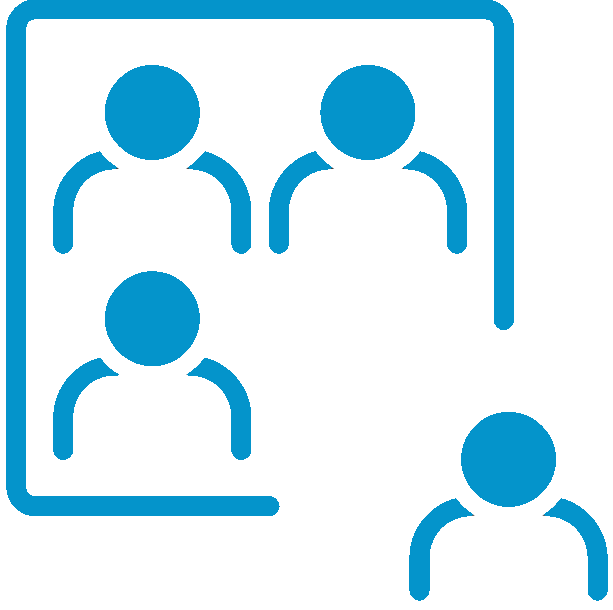
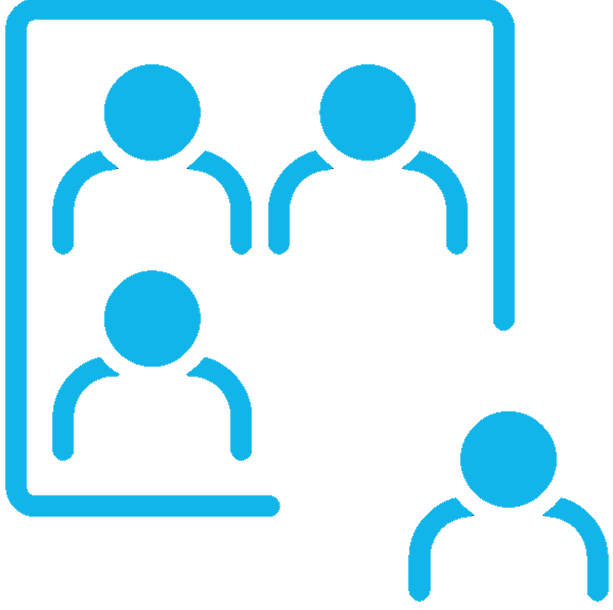
v2

Changed region(s): [[0.0, 0.0, 0.8679, 0.8721], [0.6509, 0.6541, 1.0, 0.9967]]

diff --git a/client/index.html b/client/index.html
@@ -2,7 +2,7 @@
 <html lang="en">
 
 <head>
-    <title>30 Day Target Move-in Date Calculator | Built for Zero</title>
+    <title>30 Day Target Move-In Date Calculator | Built for Zero</title>
     <meta name="viewport" content="width=device-width, initial-scale=1">
     <link rel="stylesheet" href="style.css">
     <!-- CS Fonts -->
@@ -16,22 +16,24 @@
     <form name="submitToGoogleSheet" id="formInput">
         <div class="gridContainer">
             <div class="pageHeader">
-                <h1 style="font-size:40px;">30 Day Target Move-in Date Calculator   |   Built for Zero</h1>
-                <p style="font-size: 16px; font-weight: bold;"> This tool is designed to help you set goals around a monthly Housing Placement rate to help drive an increase in your community's outflow.</p>
-                <p style="font-size: 16px;">Enter your data along with your targets. Then, press the <b>GO!</b> button to view your <b>Suggested Reduction Goals</b>.<br></p>
+                <h1 style="font-size: 40px;">Built for Zero</h1>
+                <h1 style="font-size:40px;">30 Day Target Move-In Date Calculator</h1>
+                <p style="font-size: 16px;"> Setting a Target Move-In Date Goal can bring new focus and clarity to the way that you work with clients every week. 
+                    At the end of your case conferencing meeting, consistently check how many target move-in dates your team has set for the next 30 days. Are you on track to 
+                    house enough people to reduce your by-name list? This goal calculator will help you know.</p>
             </div>
             <div class="disclaimer">
-                <p style="font-size: 15px; background-color:rgba(90, 90, 90, 0.647); padding: 1%;">
-                    <b>PLEASE NOTE: </b>There is no guarantee that reaching these Housing Placement and Outflow targets will result in a reduction in your community's Actively Homeless Number. 
-                    The tool below uses a simple linear model that rests on the assumption that your monthly inflow and outflow are fairly constant each month and that the three months of 
-                    data you enter below are representative of your typical inflow and outflow. Since it is impossible to accurately predict what your actual inflow and outflow will be in the future, 
-                    these assumptions are non-trivial. Therefore, this tool is for goal-setting purposes only and should not be relied upon to provide an accurate projection of what will happen in your homelessness system. 
+                <p style="font-size: 15px; background-color:rgba(90, 90, 90, 0.647); padding: 2%;">
+                    <b>HOW TO USE THIS TOOL: </b>It takes a lot of work to reduce your by-name list. This tool helps you focus on just one part, your housing placements. 
+                    Use the <a href="https://docs.google.com/document/d/11QEc_Yd7us2gqvrVhqg1Y2LvnraLX3j8FyFzgTvXo3s/edit">Target Move-In Dates Guide</a> along with this tool to ensure that your team is on track to house people at your desired rate.
+                    <br><br>
+                    This tool helps your case conferencing team set target move-in dates so that you can house people faster; it is not a forecasting tool. 
+                    If your inflow or outflow rates change over the coming months, your actively homeless count will fluctuate. Give attention to your entire system! 
+                    Reducing your by-name list requires accelerating your housing placements, yes, and also taking action to intentionally reduce people entering your system.  
                 </p>
             </div>
-            <div class="communityHeader">
-                <h2>COMMUNITY & POPULATION</h2>
-            </div> 
             <div class="communityDetails">
+                <h2>COMMUNITY & POPULATION</h2>
                 <div style="display: inline-block;">
                     <label for="dropdown">COMMUNITY</label>
                     <select class="input" name="Community" id="communityDropdown" required>
@@ -59,28 +61,25 @@
             </div>
             <div class="currentMonth">
                 <h2>CURRENT STATE</h2>
-                <label for="dropdown">CURRENT MONTH</label><br><br>
+                <label for="dropdown">CURRENT MONTH</label>
                 <input type="month" class="input" name="Current Month" id="currentMonth" readonly>
             </div>
             <div class="currentActivelyHomeless">
                 <label for="input">CURRENT ACTIVELY HOMELESS NUMBER</label>
-                <div class="helptext">Enter the number of individuals currently experiencing homelessness in your community</div>
                 <input class="form-input" name="Current Actively Homeless" type="number" min="0" id="currentActivelyHomelessInput" required>
             </div>
             <div class="targetMonth">
                 <h2>TARGET STATE</h2>
                 <label for="dropdown">TARGET MONTH</label>
-                <div class="helptext">Select the date by which you want to reach the goal</div>
                 <input type="month" class="input" name="Target Month" id="targetMonthDropdown" required>
             </div>
             <div class="targetActivelyHomeless">
                 <label for="input">TARGET ACTIVELY HOMELESS NUMBER</label>
-                <div class="helptext">Enter the Actively Homeless Number you would like to reach by the Target Month</div>
                 <input class="form-input" name="Target Actively Homeless" type="number" min="0" id="targetActivelyHomelessInput" required>
             </div>
             
             <div class="dataHeader">
-                <h2>ENTER YOUR MOST RECENT 3 MONTHS OF DATA</h2>                    
+                <h2>YOUR MOST RECENT 3 MONTHS OF DATA</h2>                    
                 <button type="button" style="width: 20%; margin-right: 2%;" id="autofill-button">AUTOFILL DATA</button>
                 <p style="color:#ffd2e6; display: inline-block;" id="autofillError"></p>
             </div>
@@ -113,42 +112,46 @@
             <div class="goalParam1">
                 <h2>GOAL PARAMETERS</h2>
                 <img src="../assets/noun_month_3202614.png">
-                <p id="paramNumMonths" style="font-size: 30px; font-weight: bold; color: #ff6f0c; margin: 0%;"></p>
-                <p style="color: #ff6f0c;">month(s) to reach your target</p>
+                <p id="paramNumMonths" style="font-size: 30px; font-weight: bold; color: #12b5ea; margin: 0%;"></p>
+                <p style="color: #12b5ea;">month(s) to reach your target</p>
                 
                 <img src="../assets/noun_people_3457286.png">
-                <p id="paramTargetNetChange" style="font-size: 30px; font-weight: bold; color: #86af15; margin: 0%;"></p>
-                <p style="color: #86af15;">person reduction on your active list</p>
+                <p id="paramTargetNetChange" style="font-size: 30px; font-weight: bold; color: #12b5ea; margin: 0%;"></p>
+                <p style="color: #12b5ea;">person reduction on your active list</p>
             </div>
             <div class="goalParam2">
                 <img src="../assets/noun_homeless_3418188.png">
-                <p id="paramAvgInflow" style="font-size: 30px; font-weight: bold; color: #a50a51; margin: 0%;"></p>
-                <p style="color: #a50a51;">people joining the list each month<br>(average total monthly inflow)</p>
+                <p id="paramAvgInflow" style="font-size: 30px; font-weight: bold; color: #12b5ea; margin: 0%;"></p>
+                <p style="color: #12b5ea;">people joining the list each month<br>(average total monthly inflow)</p>
             </div>
             <div class="goalParam3">
                 <img src="../assets/noun_exit_2590544.png">
-                <p id="paramAvgOutflow" style="font-size: 30px; font-weight: bold; color: #0494cb; margin: 0%;"></p>
-                <p style="color: #0494cb;">people moving off the list each month<br>(average total monthly outflow)</p>
+                <p id="paramAvgOutflow" style="font-size: 30px; font-weight: bold; color: #12b5ea; margin: 0%;"></p>
+                <p style="color: #12b5ea;">people moving off the list each month<br>(average total monthly outflow)</p>
                 
                 <img src="../assets/noun_Home_680045.png">
                 <p id="paramAvgHoused" style="font-size: 30px; font-weight: bold; color: #12b5ea; margin: 0%;"></p>
                 <p style="color: #12b5ea;">people moving into housing<br>(average monthly housing placements)</p>
             </div>
-            <div class="validationMsg" style="color:#ffd2e6; padding: 1%; text-align: center;" id="dataValidationWarning"></div>
-            <div class="submitButton" id="button-wrapper">
+            <div class="submitButton" style="text-align: center;" id="button-wrapper">
+                <p style="color:#ffd2e6; padding: 1%;" id="dataValidationWarning"></p>
                 <button type="submit" id="submit-button">GO!</button>
+                <div class="loader" style="display: none;" id="loader"></div>
                 <br>
-                <p style="font-size: 15px; color:#ffd2e6; padding: 0% 40% 0% 1%; text-align: center;">All fields are required. Averages calculated below are rounded up to the next whole number to avoid counting "fractional people." :)</p>
-            </div>
-
-            <div class="suggestedGoal" id="suggestedGoal">
-                <h2 style="text-align: center; vertical-align: middle;">SUGGESTED GOAL</h2>
+                <p style="font-size: 15px; color:#ffd2e6;">All fields are required. Averages calculated below are rounded up to the next whole number to avoid counting "fractional people." :)</p>
             </div>
             <div class="goal">
-                <p style="display: none; padding: 1%;" id="goalMet"></p>
-                <p  style="display: none; padding: 1%;" id="goal"> Increase monthly housing placements from<br>
+                <h2 style="text-align: center; margin: 0px; background-color: #12b5ea; padding: 2%;">TARGET MOVE-IN DATES GOAL</h2>
+                <p style="display: none; padding: 0% 1%;" id="goalMet"></p>
+                <p style="display: none; padding: 0% 1%;" id="goal"> Increase monthly housing placements from<br>
                     <span style="font-weight: bold; color:#12b5ea;" id="currentTargetHousingRate"></span> to
                     <span style="font-weight: bold; color:#12b5ea;" id="goalTargetHousingRate"></span> people per month
+                </p>
+                <p style="display: none; padding: 0% 2%; font-size: 15px" id="goalTargetExplanation">In order to reach that goal, you should set at least 
+                    <span style="font-weight: bold; color: #12b5ea;" id="goalTargetHousingRate2"></span> target move-in dates for the next 30 days.</span>
+                </p>
+                <p style="display: none; padding: 0% 2%; font-size: 15px; text-align: left;" id="goalAction"><b>How to take action: </b>Check your by-name list. Do you have enough target move-in dates set for this month? 
+                    If not, go back through the list with an open mind and look for creative ideas to move some clients through your housing process faster.
                 </p>
             </div>
             
@@ -156,56 +159,56 @@
                 <h2 style="text-align: center;">EXPLANATION</h2> <br><br>
                 <div style="display: none;" id="explanation1">
                     <p >To reduce your active list by
-                        <span style="font-size: 20px; font-weight:bold; color:#86af15;" id="explanationTargetNetChange"></span> people in 
-                        <span style="font-size: 20px; font-weight:bold; color:#ff6f0c;" id="explanationNumMonths"></span> month(s), you will need to reduce your Actively Homeless Number by 
-                        <span style="font-size: 20px; font-weight:bold; color:rgb(35, 35, 35);" id="explanationTargetNetChangeRate"></span> people per month. 
+                        <span style="font-size: 20px; font-weight:bold; color:#12b5ea;" id="explanationTargetNetChange"></span> people in 
+                        <span style="font-size: 20px; font-weight:bold; color:#12b5ea;" id="explanationNumMonths"></span> month(s), you will need to reduce your Actively Homeless Number by 
+                        <span style="font-size: 20px; font-weight:bold; color:#12b5ea;" id="explanationTargetNetChangeRate"></span> people per month. 
                     </p>
                     <br>
-                    <span style="font-size: 20px; font-weight:bold; color:#86af15;" id="equationTargetNetChange"></span> people / 
-                    <span style="font-size: 20px; font-weight:bold; color:#ff6f0c;" id="equationNumMonths"></span> month(s)
-                    <p style="font-weight:bold; color:rgb(35, 35, 35);">= <span style="font-size: 20px;" id="equationTargetNetChangeRate"></span> person monthly reduction</p>
+                    <span style="font-size: 20px; font-weight:bold; color:#12b5ea;" id="equationTargetNetChange"></span> people / 
+                    <span style="font-size: 20px; font-weight:bold; color:#12b5ea;" id="equationNumMonths"></span> month(s)
+                    <p style="font-weight:bold; color:#12b5ea;">= <span style="font-size: 20px;" id="equationTargetNetChangeRate"></span> person monthly reduction</p>
                 </div>
             </div>
             <div class="explanation2">
                 <div style="display: none;" id="explanation2">
                     <p>Assuming 
-                        <span style="font-size: 20px; font-weight:bold; color: #a50a51;" id="explanationAvgInflow"></span> people are joining your list each month, you will need to have 
-                        <span style="font-size: 20px; font-weight:bold; color:rgb(35, 35, 35)" id="explanationTargetOutflowRate"></span> people move off your list each month. 
+                        <span style="font-size: 20px; font-weight:bold; color: #12b5ea;" id="explanationAvgInflow"></span> people are joining your list each month, you will need  
+                        <span style="font-size: 20px; font-weight:bold; color:#12b5ea" id="explanationTargetOutflowRate"></span> people move off your list each month. 
                     </p>
                     <br>
-                    <span style="font-size: 20px; font-weight:bold; color:rgb(35, 35, 35);" id="equationTargetNetChangeRate2"></span> person monthly reduction + 
-                    <span style="font-size: 20px; font-weight:bold; color: #a50a51;" id="equationAvgInflow"></span> person monthly inflow
-                    <p style="font-weight:bold; color:rgb(35, 35, 35);">= <span style="font-size: 20px;" id="equationTargetOutflowRate"></span> person monthly outflow needed</p>
+                    <span style="font-size: 20px; font-weight:bold; color:#12b5ea;" id="equationTargetNetChangeRate2"></span> person monthly reduction + 
+                    <span style="font-size: 20px; font-weight:bold; color: #12b5ea;" id="equationAvgInflow"></span> person monthly inflow
+                    <p style="font-weight:bold; color:#12b5ea;">= <span style="font-size: 20px;" id="equationTargetOutflowRate"></span> person monthly outflow needed</p>
                 </div>
             </div>
             <div class="explanation3">
                 <div style="display: none;" id="explanation3">
                     <p>Assuming 
-                        <span style="font-size: 20px; font-weight:bold; color: #0494cb;" id="explanationAvgTotalOutflow"></span> people are currently moving off the list each month, 
+                        <span style="font-size: 20px; font-weight:bold; color: #12b5ea;" id="explanationAvgTotalOutflow"></span> people are currently moving off the list each month, 
                         <span style="font-size: 20px; font-weight:bold; color: #12b5ea;" id="explanationAvgHoused"></span> due to moving into housing and 
-                        <span style="font-size: 20px; font-weight:bold; color: rgb(35, 35, 35);" id="explanationOtherOutflow"></span> due to other outflow, you can increase your monthly housing placements to 
-                        <span style="font-size: 20px; font-weight:bold; color: rgb(35, 35, 35);" id="explanationTargetHousingRate"></span> people per month to reach your goal. 
+                        <span style="font-size: 20px; font-weight:bold; color: #12b5ea;" id="explanationOtherOutflow"></span> due to other outflow, you can increase your monthly housing placements to 
+                        <span style="font-size: 20px; font-weight:bold; color: #12b5ea;" id="explanationTargetHousingRate"></span> people per month to reach your goal. 
                     </p>
                     <br>
-                    <span style="font-size: 20px; font-weight: bold; color: #0494cb;" id="equationAvgTotalOutflow"></span> person total outflow - 
+                    <span style="font-size: 20px; font-weight: bold; color: #12b5ea;" id="equationAvgTotalOutflow"></span> person total outflow - 
                     <span style="font-size: 20px; font-weight: bold; color: #12b5ea;" id="equationAvgHoused"></span> current monthly housing placements
-                    <p style="font-weight: bold; color: rgb(35, 35, 35)"> = <span style="font-size: 20px;" id="equationOtherOutflow";></span> person monthly other outflow</p>
+                    <p style="font-weight: bold; color: #12b5ea"> = <span style="font-size: 20px;" id="equationOtherOutflow";></span> person monthly other outflow</p>
                     <br>
-                    <span style="font-size: 20px; font-weight:bold; color:rgb(35, 35, 35);" id="equationTargetOutflowRate2"></span> person monthly outflow needed - 
-                    <span style="font-size: 20px; font-weight:bold; color: rgb(35, 35, 35);" id="equationOtherOutflow2"></span> person monthly other outflow
-                    <p style="font-weight:bold; color:rgb(35, 35, 35);">= <span style="font-size: 20px;" id="equationTargetHousingRate"></span> monthly housing placements needed</p>
+                    <span style="font-size: 20px; font-weight:bold; color:#12b5ea;" id="equationTargetOutflowRate2"></span> person monthly outflow needed - 
+                    <span style="font-size: 20px; font-weight:bold; color: #12b5ea;" id="equationOtherOutflow2"></span> person monthly other outflow
+                    <p style="font-weight:bold; color:#12b5ea;">= <span style="font-size: 20px;" id="equationTargetHousingRate"></span> monthly housing placements needed</p>
                 </div>
             </div>
             <div class="note" style="font-size: small;">
-                <b>NOTE:</b> This estimate is based on the assumption that your monthly Total Inflow and Other Outflow rates remain similar to the 3 month averages calculated above. Please bear in mind that 
+                <b>HOW WE MAKE THIS CALCULATION:</b> This estimate is based on the assumption that your monthly Total Inflow and Other Outflow rates remain similar to the 3 month averages calculated above. Please bear in mind that 
                     past performance is not indicative of future performance, particularly for factors like Inflow and Other Outflow which are heavily impacted by external factors outside the control of your homelessness response system.
-                <br><br>
-                <p><b>Icon credits: </b>month by Adrien Coquet from the Noun Project, people by Ainsley Agatha from the Noun Project, homeless by ZakaUddin from the Noun Project,
-                    discard by priyanka from the Noun Project, Home by Gregor Cresnar from the Noun Project</p>
                 </div>
         </div>
     </form>
-
+    <div class="iconCredit" style="font-size: small;">
+        <p>Icon credits: month by Adrien Coquet from the Noun Project, people by Ainsley Agatha from the Noun Project, homeless by ZakaUddin from the Noun Project,
+            discard by priyanka from the Noun Project, Home by Gregor Cresnar from the Noun Project</p>
+    </div>
     <!-- Main JS script -->
     <script src="./main.js"></script>
 </body>

diff --git a/client/main.js b/client/main.js
@@ -128,11 +128,15 @@ document.getElementById("autofill-button").onclick = function() {
 function showHideGoal(showHide) {
     if (showHide == "hide") {
         document.getElementById("goal").style.display = "none";
+        document.getElementById("goalTargetExplanation").style.display = "none";
+        document.getElementById("goalAction").style.display = "none";
         document.getElementById("explanation1").style.display = "none";
         document.getElementById("explanation2").style.display = "none";
         document.getElementById("explanation3").style.display = "none";
     } else if (showHide == "show") {
         document.getElementById("goal").style.display = "block";
+        document.getElementById("goalTargetExplanation").style.display = "block";
+        document.getElementById("goalAction").style.display = "block";
         document.getElementById("goalMet").style.display = "none";
         document.getElementById("explanation1").style.display = "block";
         document.getElementById("explanation2").style.display = "block";
@@ -145,6 +149,9 @@ function hideParameters() {
     document.getElementById('paramAvgInflow').innerHTML = "";
     document.getElementById("paramAvgHoused").innerHTML = "";
     document.getElementById("paramAvgOutflow").innerHTML = "";
+}
+function hideLoader() {
+    document.getElementById("loader").style.display = "none"
 }
 
 // DISPLAY RESULTS AND WRITE TO GOOGLE SHEET WHEN "SUBMIT" IS CLICKED
@@ -202,6 +209,9 @@ function submitData(formName){
             hideParameters();
             document.getElementById("dataValidationWarning").innerHTML = "<b>ERROR: </b>Housing Placement numbers must be smaller than the Total Outflow numbers.";
         } else {
+            // Show loader
+            document.getElementById("loader").style.display = "inline-block";
+
             // Show parameters
             document.getElementById("paramNumMonths").innerHTML = timeframe;
             document.getElementById("paramTargetNetChange").innerHTML = targetNetChange;
@@ -220,6 +230,7 @@ function submitData(formName){
                 showHideGoal("show");
                 document.getElementById("currentTargetHousingRate").innerHTML = avg3MoHoused;
                 document.getElementById("goalTargetHousingRate").innerHTML = targetHousingRate;    
+                document.getElementById("goalTargetHousingRate2").innerHTML = targetHousingRate;
 
                 document.getElementById("explanationTargetNetChange").innerHTML = targetNetChange;
                 document.getElementById("explanationNumMonths").innerHTML = timeframe;
@@ -262,6 +273,9 @@ function submitData(formName){
             fetch(scriptURL, {method: "POST", body: formData})
                 .then((response) => console.log("Success!", response))
                 .catch((error) => console.error("Error!", error.message));
+            
+            // Hide loader
+            setTimeout(hideLoader, 500);
         }
     });
 }

diff --git a/client/style.css b/client/style.css
@@ -33,23 +33,13 @@ body {
       grid-column: 5/8;
       grid-row: 1;
     }
-    .communityHeader {
-      grid-column: 1/5;
-      grid-row: 2;
-    }
     .communityDetails {
       grid-column: 1/5;
-      grid-row: 3;
-    }
-    .suggestedGoal {
-      grid-column: 5/8;
-      grid-row: 2;
-      background-color:#12b5ea;
-      padding: 2% 2%;
+      grid-row: 2/3;
     }
     .goal {
       grid-column: 5/8;
-      grid-row: 3;
+      grid-row: 2/4;
       background-color:  rgba(205, 205, 205, 0.178);
       font-size: 28px; 
       color:white; 
@@ -178,18 +168,18 @@ body {
       grid-column: 6/8;
       grid-row: 9/11;
     }
-    .validationMsg {
-      grid-column: 2/4;
-      grid-row: 11;
-    }
     .submitButton {
-      grid-column: 2/5;
-      grid-row: 12;
+      grid-column: 1/5;
+      grid-row: 11;
     }
     .note {
       grid-column: 5/8;
-      grid-row: 11/13;
+      grid-row: 11;
       padding: 3% 1%;
+    }
+    .iconCredit {
+      grid-column: 1/8;
+      grid-row: 13;
     }
   img {
     width: 25%;
@@ -239,7 +229,7 @@ body {
     color:black;
   }
   button {
-    width: 60%;
+    width: 50%;
     padding: 5px;
     color: white;
     background-color: #a50a51;
@@ -257,6 +247,21 @@ body {
     align-items: center;
     justify-content: center;
   }
+  .loader {
+    border: 7px solid #f3f3f3; /* Light grey */
+    border-top: 7px solid #a50a51; /* Blue */
+    border-radius: 50%;
+    width: 20px;
+    height: 20px;
+    animation: spin 2s linear infinite;
+    vertical-align: -10px;
+    margin-left: 2%;
+  }  
+  @keyframes spin {
+    0% { transform: rotate(0deg); }
+    100% { transform: rotate(360deg); }
+  }
+  
   
   /* @media only screen and (max-width: 600px) {
     .gridContainer {
